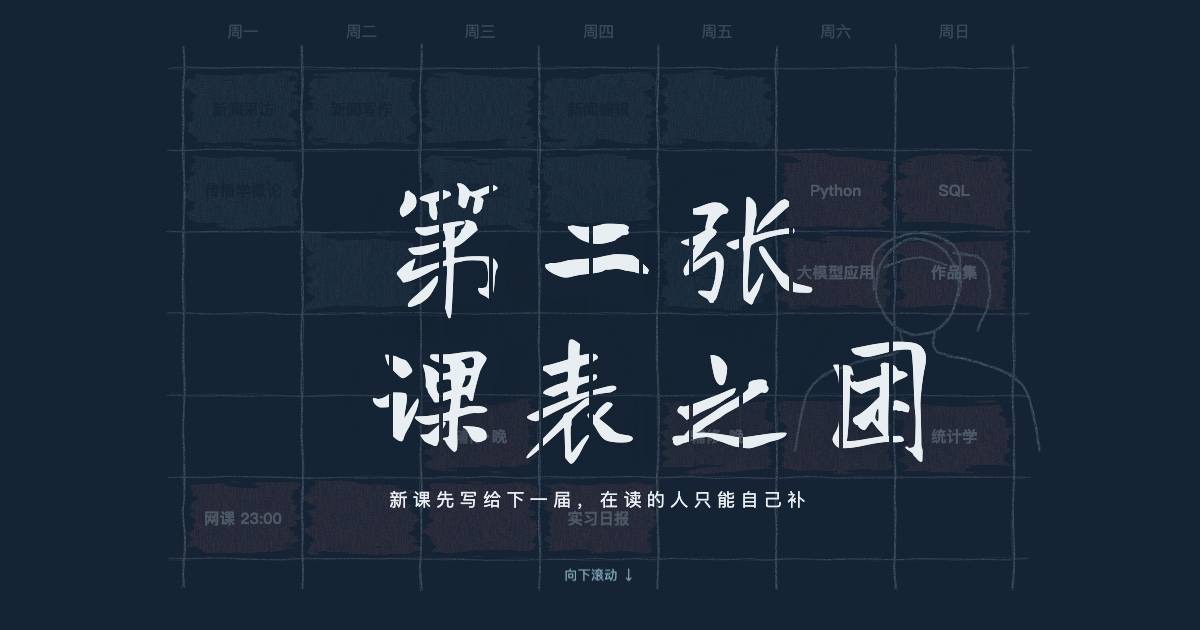
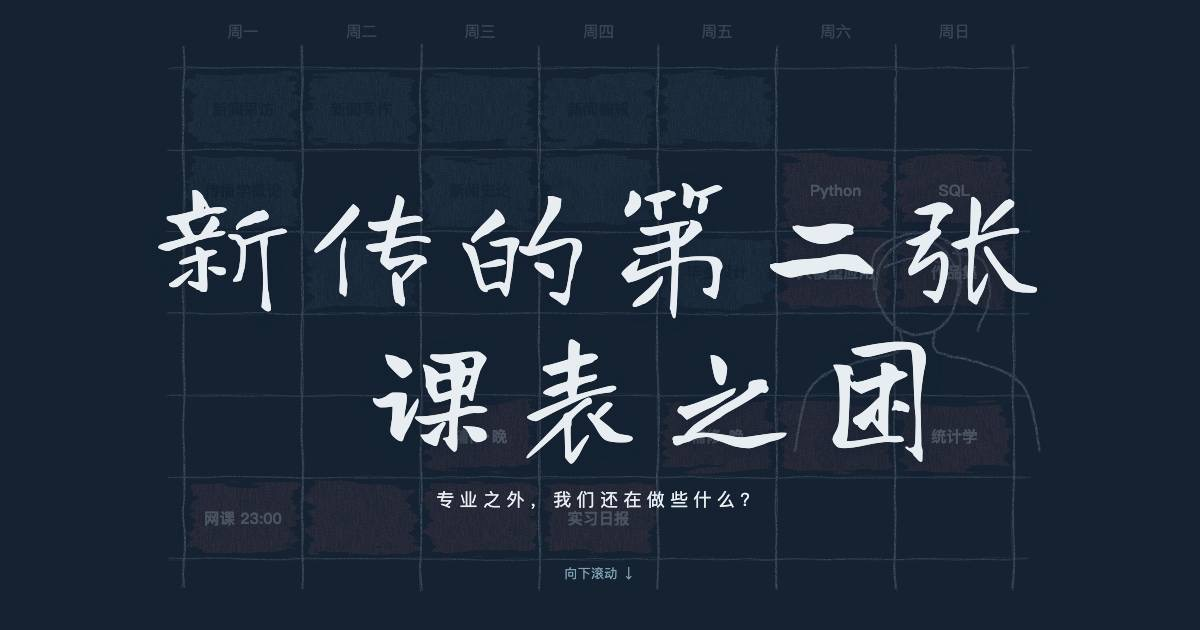
统一人物年级与插画时间线；更新分享卡片

diff --git a/index.html b/index.html
@@ -39,7 +39,7 @@
     </li>
     <li data-p="zhouyu" tabindex="0">
       <img src="assets/art/avatar-zhouyu.svg" alt="周屿" width="200" height="200" decoding="async">
-      <div class="card"><b>周屿</b>中国传媒大学会计学2023级本科生。2025年，学校公示会计学拟撤销；同年他报名新闻学辅修，周三、周五晚上和周末去上课。</div>
+      <div class="card"><b>周屿</b>中国传媒大学会计学2024级本科生。会计学在学校2025年本科专业设置公示中被列为拟撤销；大二这年，他报名新闻学辅修，周三、周五晚上和周末去上课。</div>
     </li>
     <li data-p="sutang" tabindex="0">
       <img src="assets/art/avatar-sutang.svg" alt="苏棠" width="200" height="200" decoding="async">
@@ -63,7 +63,7 @@
 
   <div class="scene-phone" data-progress>
     <div class="sticky">
-      <img class="phone" src="assets/art/phone.svg" alt="手机上的新闻推送：中传“砍掉”16个专业" width="520" height="900" decoding="async">
+      <img class="phone" src="assets/art/phone.svg" alt="手机上的新闻推送：中传“砍掉”16个本科专业" width="520" height="900" decoding="async">
       <div class="phone-lines">
         <p data-at="0.08">2025年招生季，</p>
         <p data-at="0.22">中国传媒大学新闻学2023级的<b class="who" data-p="linhe">林禾</b>（化名）</p>
@@ -74,7 +74,7 @@
   </div>
 
   <div class="content">
-    <figure class="art-wide"><img src="assets/art/clippings.svg" alt="2026年3月关于中传16个专业关停并转的新闻剪报" width="1100" height="760" decoding="async"></figure>
+    <figure class="art-wide"><img src="assets/art/clippings.svg" alt="关于专业调整的通知与公示剪报" width="1100" height="760" decoding="async"></figure>
 
     <p>“新闻学不可能被砍的。”<b class="who" data-p="linhe">林禾</b>笃定。但是看到摄影、动画技术、动漫等艺术类专业被砍，<b class="who" data-p="linhe">林禾</b>嗅到了不一样的信号：“新传类专业确实没有很大的变化，但是细分的小方向应该都会有调整，学院应该会新出一版培养方案。但估计都和我们这些‘老家伙’没关系了。”</p>
     <p>专业调整的信号其实来得更早。早在5月，中传发布本科“四个一批”专业建设推进会的消息：<mark>全校共16个专业实施关停并转，全部在建专业进入升级改造序列</mark>；关停并转针对的，是“社会需求不足、与行业发展脱节的专业方向”。那篇通稿里还有一句话：学校要“主动应对AI带来的‘灭顶’挑战”。<a class="src" href="https://m.thepaper.cn/newsDetail_forward_30799119">中传官方发布</a></p>
@@ -301,7 +301,7 @@
   <div class="content">
     <div class="quote-wall">
       <blockquote data-p="linhe"><p>课表上的课，她都上完了；招聘启事上的那一张能力清单，只能自己补齐。</p><cite>—— 林禾（新闻学2023级）</cite></blockquote>
-      <blockquote data-p="zhouyu"><p>他的专业不会再有学弟学妹。他想多一个选项，哪怕只是证书上的一行字。</p><cite>—— 周屿（会计学2023级，新闻学辅修）</cite></blockquote>
+      <blockquote data-p="zhouyu"><p>他的专业不会再有学弟学妹。他想多一个选项，哪怕只是证书上的一行字。</p><cite>—— 周屿（会计学2024级，新闻学辅修）</cite></blockquote>
       <blockquote data-p="sutang"><p>项目不收学费，可多出来的机票费用、挤压的时间、额外承担的作业项目，每一样都要自己消化。</p><cite>—— 苏棠（北大新传，国际金融项目）</cite></blockquote>
     </div>
   </div>

diff --git a/tools/art.py b/tools/art.py
@@ -272,17 +272,17 @@ def make_phone():
     g += pen.line((220, 70), (300, 70), w=3)
     t = text(110, 145, "新闻推送", 26, CHALK, weight=700)
     items = [
-        ("1", "中传“砍掉”16个专业", CORAL),
-        ("2", "党委书记：“不必惊慌”", CHALK),
-        ("3", "AI时代的学科“新陈代谢”", CHALK),
-        ("4", "彻底重构课堂？", CHALK),
+        ("1", "中传“砍掉”16个本科专业", CORAL),
+        ("2", "16个专业关停并转", CHALK),
+        ("3", "主动应对AI“灭顶”挑战", CHALK),
+        ("4", "2025年本科专业设置公示", CHALK),
     ]
     for i, (n, s, col) in enumerate(items):
         y = 205 + i * 78
         t += text(112, y, n, 26, col, weight=700)
         t += text(146, y, s, 23, col)
         g += pen.line((110, y + 26), (410, y + 26), w=1, op=0.35, passes=1)
-    t += text(112, 560, "3月11日  周三  23:47", 20, BLUE)
+    t += text(112, 560, "7月  23:47", 20, BLUE)
     body = f'<g filter="url(#chalk)">{g}</g>{t}'
     svg("phone.svg", W, H, body)
 
@@ -293,9 +293,9 @@ def make_clippings():
     g = ""
     t = ""
     clips = [
-        (90, 60, -6, "人民网四川频道 · 2026.03.11", "彻底重构课堂？", "中传16个专业关停并转"),
-        (520, 40, 5, "南方财经网 · 2026.03.12", "“双一流”高校“砍掉”16个专业", "高校学科调整重磅信号释放"),
-        (150, 380, 3, "中国蓝观察 · 2026.03.11", "中传“砍掉”16个专业", "AI时代的学科“新陈代谢”"),
+        (90, 60, -6, "中国传媒大学 · 2025.05.10", "“四个一批”专业建设推进会", "全校共16个专业实施关停并转"),
+        (520, 40, 5, "教育部 · 2025.04.22", "2024年度备案和审批结果", "停招专业点2220个"),
+        (150, 380, 3, "清华大学 · 2023.11.22", "停招专业名单", "广告学，不招生"),
         (560, 400, -4, "教育部 · 2025.04.22", "撤销、停招专业点数", "大幅超过增设专业点数"),
     ]
     for (x, y, rot, src, h1, h2) in clips:
